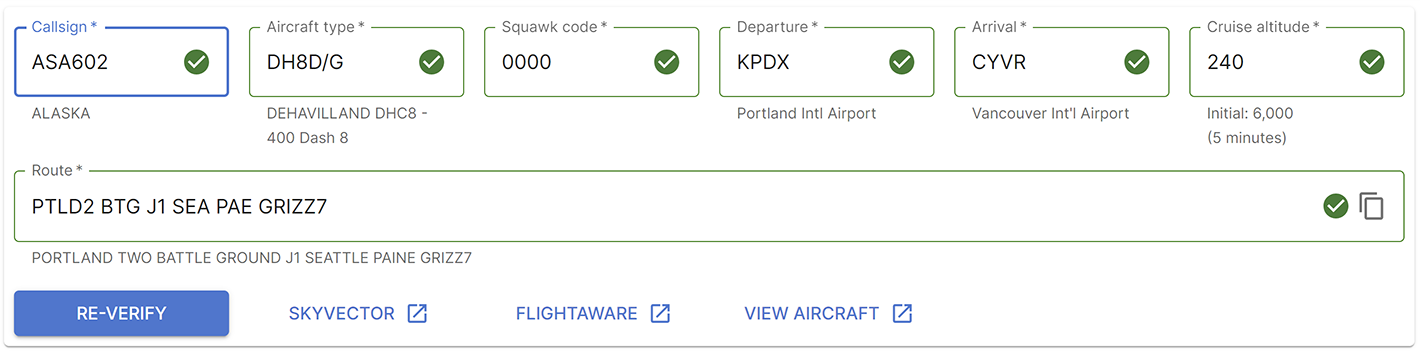
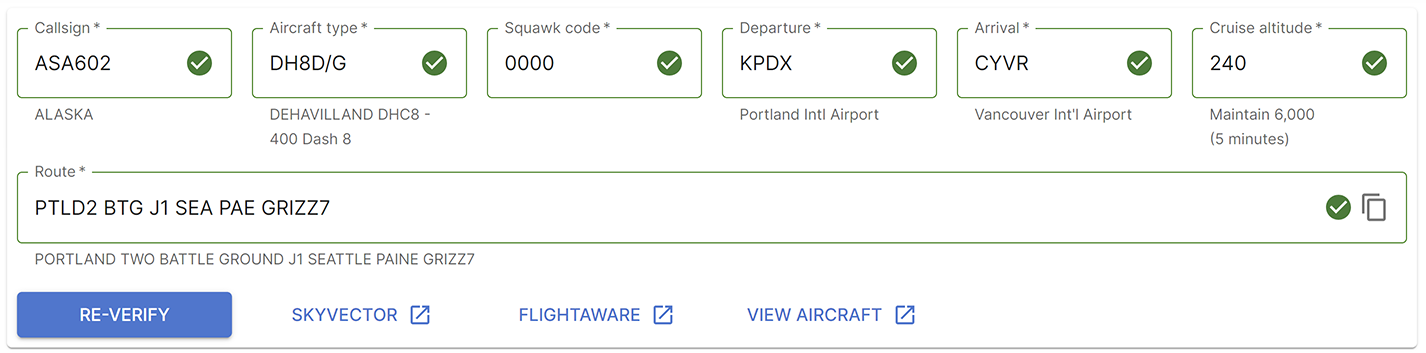
Update documentation for new phrasing options Fixes #402

diff --git a/README.md b/README.md
@@ -35,14 +35,14 @@ For other software you'll need to manually input each part of the flight plan.
 
 After a flight plan is verified the plan will update to show helpful information underneath each of the flight plan parts.
 
-| Part            | Information                                                                                                                                                                                                                                                                                                                                                                                                                                                                                                        |
-| --------------- | ------------------------------------------------------------------------------------------------------------------------------------------------------------------------------------------------------------------------------------------------------------------------------------------------------------------------------------------------------------------------------------------------------------------------------------------------------------------------------------------------------------------ |
-| Callsign        | The telephony for the airline                                                                                                                                                                                                                                                                                                                                                                                                                                                                                      |
-| Aircraft type   | The aircraft manufacturer and name                                                                                                                                                                                                                                                                                                                                                                                                                                                                                 |
-| Departure       | The departure airport name                                                                                                                                                                                                                                                                                                                                                                                                                                                                                         |
-| Arrival         | The arrival airport name                                                                                                                                                                                                                                                                                                                                                                                                                                                                                           |
-| Cruise altitude | The first line shows the initial altitude to assign, if known. If "CVS" is shown in front of the altitude then the initial altitude should be issued with the "Climb via SID" phraseology. The second line shows when the pilot should expect to get their final cruise altitude, in minutes. If this information is shown in parenthesis, e.g. `(5 minutes)`, then the time is published on the chart and does not have to be given to the pilot as part of the clearance unless the cruise altitude was amended. |
-| Route           | The telephony for the route, including how to say the SID (if known) and any navaids on the route.                                                                                                                                                                                                                                                                                                                                                                                                                 |
+| Part            | Information                                                                                                                                                                                                                                                                                                                                                                                                                                                                                                  |
+| --------------- | ------------------------------------------------------------------------------------------------------------------------------------------------------------------------------------------------------------------------------------------------------------------------------------------------------------------------------------------------------------------------------------------------------------------------------------------------------------------------------------------------------------ |
+| Callsign        | The telephony for the airline                                                                                                                                                                                                                                                                                                                                                                                                                                                                                |
+| Aircraft type   | The aircraft manufacturer and name                                                                                                                                                                                                                                                                                                                                                                                                                                                                           |
+| Departure       | The departure airport name                                                                                                                                                                                                                                                                                                                                                                                                                                                                                   |
+| Arrival         | The arrival airport name                                                                                                                                                                                                                                                                                                                                                                                                                                                                                     |
+| Cruise altitude | The first line shows the initial altitude to assign, if known, and how to phrase it. `CVS` means `Climb via SID except maintain`. `CVD` means `Climb via departure except maintain`. The second line shows when the pilot should expect to get their final cruise altitude, in minutes. If this information is shown in parenthesis, e.g. `(5 minutes)`, then the time is published on the chart and does not have to be given to the pilot as part of the clearance unless the cruise altitude was amended. |
+| Route           | The telephony for the route, including how to say the SID (if known) and any navaids on the route.                                                                                                                                                                                                                                                                                                                                                                                                           |
 
 ![Flight plan after verifying](client/public/help_planAfterVerifying.png?raw=true)
 

diff --git a/client/src/content/README.md b/client/src/content/README.md
@@ -35,14 +35,14 @@ For other software you'll need to manually input each part of the flight plan.
 
 After a flight plan is verified the plan will update to show helpful information underneath each of the flight plan parts.
 
-| Part            | Information                                                                                                                                                                                                                                                                                                                                                                                                                                                                                                        |
-| --------------- | ------------------------------------------------------------------------------------------------------------------------------------------------------------------------------------------------------------------------------------------------------------------------------------------------------------------------------------------------------------------------------------------------------------------------------------------------------------------------------------------------------------------ |
-| Callsign        | The telephony for the airline                                                                                                                                                                                                                                                                                                                                                                                                                                                                                      |
-| Aircraft type   | The aircraft manufacturer and name                                                                                                                                                                                                                                                                                                                                                                                                                                                                                 |
-| Departure       | The departure airport name                                                                                                                                                                                                                                                                                                                                                                                                                                                                                         |
-| Arrival         | The arrival airport name                                                                                                                                                                                                                                                                                                                                                                                                                                                                                           |
-| Cruise altitude | The first line shows the initial altitude to assign, if known. If "CVS" is shown in front of the altitude then the initial altitude should be issued with the "Climb via SID" phraseology. The second line shows when the pilot should expect to get their final cruise altitude, in minutes. If this information is shown in parenthesis, e.g. `(5 minutes)`, then the time is published on the chart and does not have to be given to the pilot as part of the clearance unless the cruise altitude was amended. |
-| Route           | The telephony for the route, including how to say the SID (if known) and any navaids on the route.                                                                                                                                                                                                                                                                                                                                                                                                                 |
+| Part            | Information                                                                                                                                                                                                                                                                                                                                                                                                                                                                                                  |
+| --------------- | ------------------------------------------------------------------------------------------------------------------------------------------------------------------------------------------------------------------------------------------------------------------------------------------------------------------------------------------------------------------------------------------------------------------------------------------------------------------------------------------------------------ |
+| Callsign        | The telephony for the airline                                                                                                                                                                                                                                                                                                                                                                                                                                                                                |
+| Aircraft type   | The aircraft manufacturer and name                                                                                                                                                                                                                                                                                                                                                                                                                                                                           |
+| Departure       | The departure airport name                                                                                                                                                                                                                                                                                                                                                                                                                                                                                   |
+| Arrival         | The arrival airport name                                                                                                                                                                                                                                                                                                                                                                                                                                                                                     |
+| Cruise altitude | The first line shows the initial altitude to assign, if known, and how to phrase it. `CVS` means `Climb via SID except maintain`. `CVD` means `Climb via departure except maintain`. The second line shows when the pilot should expect to get their final cruise altitude, in minutes. If this information is shown in parenthesis, e.g. `(5 minutes)`, then the time is published on the chart and does not have to be given to the pilot as part of the clearance unless the cruise altitude was amended. |
+| Route           | The telephony for the route, including how to say the SID (if known) and any navaids on the route.                                                                                                                                                                                                                                                                                                                                                                                                           |
 
 ![Flight plan after verifying](/help_planAfterVerifying.png)
 
